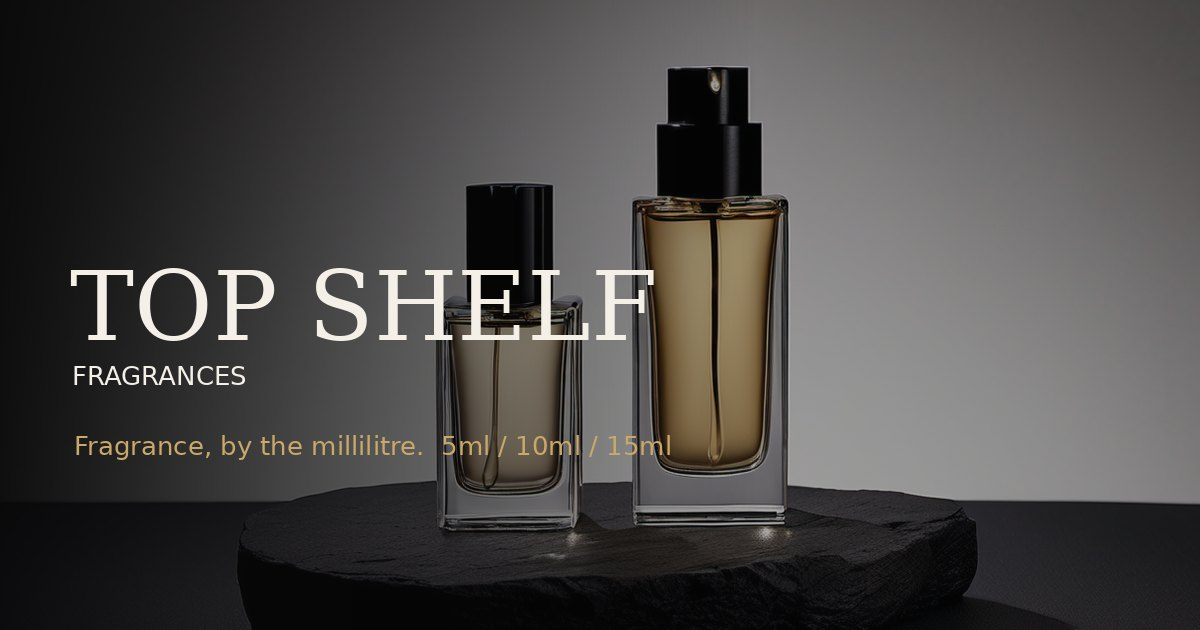
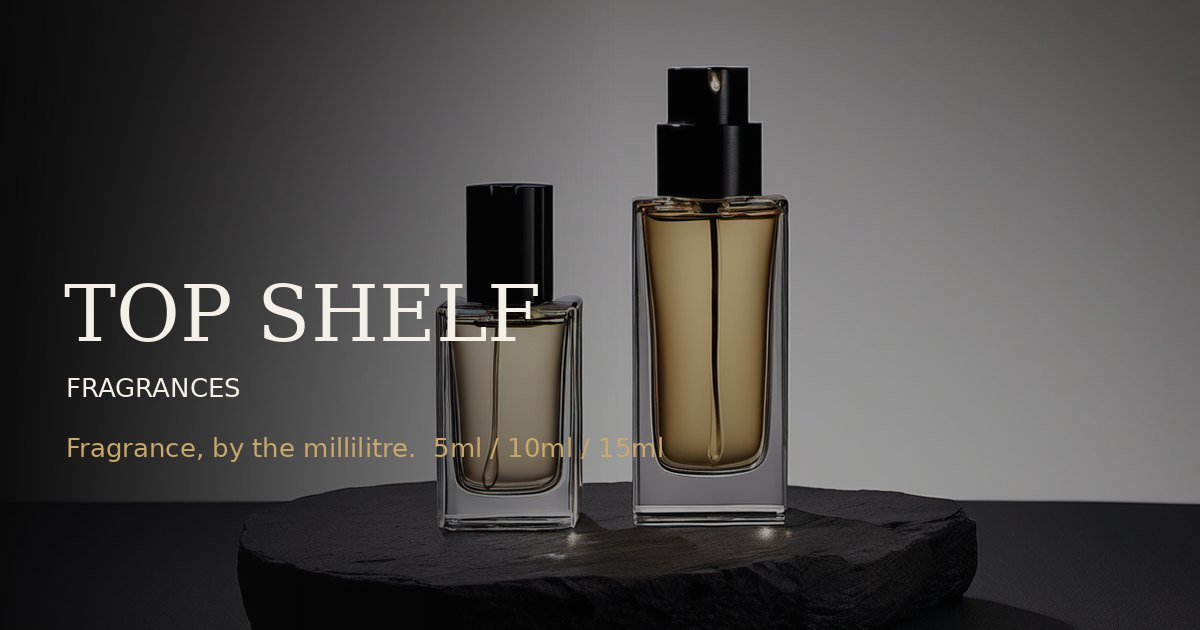
Share card type sized to the left column

Changed region(s): [[0.0308, 0.3619, 0.555, 0.7841], [0.0617, 0.573, 0.2158, 0.6333]]

diff --git a/scripts/convert.py b/scripts/convert.py
@@ -29,18 +29,18 @@ if os.path.exists(hero):
     im = Image.blend(im, veil, 0.35)
     grad = Image.new("L", (1200, 1))
     for x in range(1200):
-        grad.putpixel((x, 0), int(238 * max(0.0, 1 - x / 760)))
+        grad.putpixel((x, 0), int(245 * max(0.0, 1 - x / 620)))
     grad = grad.resize(im.size)
     im = Image.composite(Image.new("RGB", im.size, (8, 8, 9)), im, grad)
     d = ImageDraw.Draw(im)
     try:
-        big = ImageFont.truetype("/usr/share/fonts/truetype/dejavu/DejaVuSerif.ttf", 96)
+        big = ImageFont.truetype("/usr/share/fonts/truetype/dejavu/DejaVuSerif.ttf", 78)
         small = ImageFont.truetype("/usr/share/fonts/truetype/dejavu/DejaVuSans.ttf", 26)
     except Exception:
         big = small = ImageFont.load_default()
-    d.text((70, 250), "TOP SHELF", font=big, fill=(244, 240, 232))
-    d.text((72, 360), "FRAGRANCES", font=small, fill=(244, 240, 232))
-    d.text((74, 430), "Fragrance, by the millilitre.  5ml / 10ml / 15ml", font=small, fill=(201, 168, 106))
+    d.text((64, 268), "TOP SHELF", font=big, fill=(244, 240, 232))
+    d.text((66, 372), "FRAGRANCES", font=small, fill=(244, 240, 232))
+    d.text((66, 432), "Fragrance, by the millilitre.  5ml / 10ml / 15ml", font=small, fill=(201, 168, 106))
     im.save(os.path.join(OUT, "og.jpg"), "JPEG", quality=86)
     print("og", os.path.getsize(os.path.join(OUT, "og.jpg")))
 
